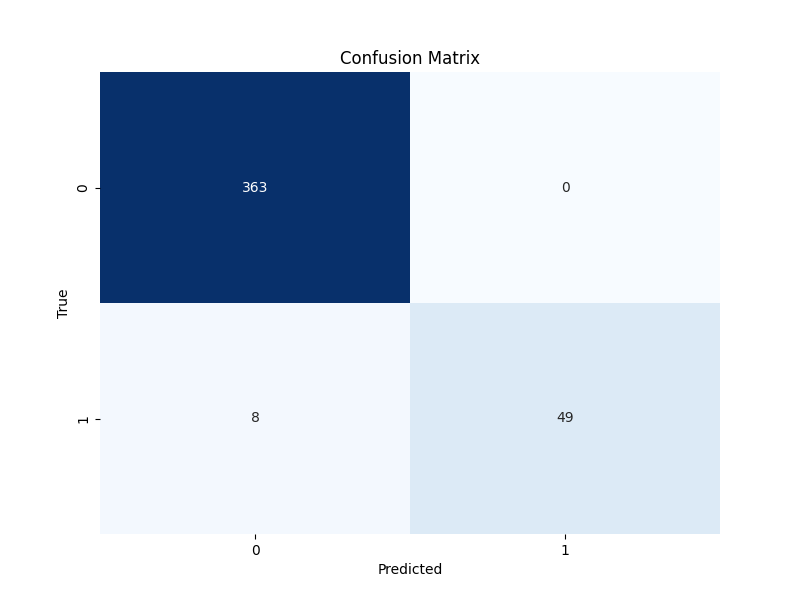
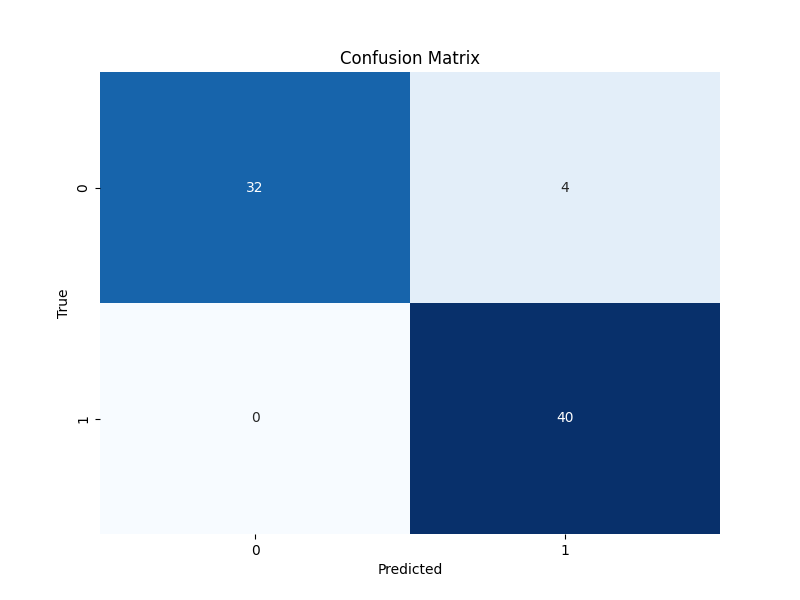
including metrics on web

Changed region(s): [[0.125, 0.12, 0.9062, 0.9], [0.6875, 0.3, 0.7188, 0.33], [0.3125, 0.69, 0.3438, 0.72]]

diff --git a/frontend/build/model.html b/frontend/build/model.html
@@ -45,8 +45,16 @@
         <h2 class="main-title">Model</h2>
         <h2 class="weather-title">Dangerous Asteorids</h2>
 
+        <div class="model-metrics">
+            <br>
+            <h3>Metrics</h3>
+            <p>
+                <strong>Accuracy:</strong> {{ accuracy }}<br>
+                <strong>Precision:</strong> {{ precision }}<br>
+                <strong>Recall:</strong> {{ recall }}
+            </p>
+        </div>
 
-        <!-- Plots -->
         <div class="plots-container">
             <div class="plot">
                 <img src="static/confusion_matrix.png" alt="Confusion Matrix">
@@ -62,32 +70,7 @@
             </div>
         </div>
 
-        <!-- Explanation of model.py -->
-        <div class="model-explanation">
-            <br>
-            <h3>Explanation of the model</h3>
-            <p>
-                The Python script, <code>model.py</code>, is responsible for training a machine learning model to
-                classify asteroids based on their features. <br>Let's break it down the main functions:
-                <br><br>
-                <strong>load_neo_data():</strong> Connects to a MongoDB database to fetch Near-Earth Object (NEO)
-                data.
-                <br>
-                <strong>preprocess_data():</strong> Processes the NEO data into a format suitable for training a
-                machine learning model.
-                <br>
-                <strong>train_model():</strong> Trains a Random Forest Classifier model using the preprocessed data.
-                <br>
-                <strong>evaluate_model():</strong> Evaluates the trained model's accuracy using testing data.
-                <br>
-                <strong>save_feature_importance_plot():</strong> Generates and saves a plot showing the importance
-                of each feature in predicting asteroid hazard.
-                <br>
-                <strong>predict_danger():</strong> Predicts the hazard level of a new asteroid using the trained
-                model.
-                </ul>
-            </p>
-        </div>
+
 
     </div>
 </body>

diff --git a/frontend/styles.css b/frontend/styles.css
@@ -25,7 +25,7 @@ body {
     align-items: center; /* Align items vertically */
 }
 
-.model-explanation {
+.model-metrics {
     text-align: center;
 }
 

diff --git a/model/model.py b/model/model.py
@@ -102,14 +102,16 @@ def train_model(dataframe):
     print("Model trained")
     return model, X_test, y_test
 
+
+
 def evaluate_model(model, X_test, y_test):
     predictions = model.predict(X_test)
 
-    # Model evaluation
-    accuracy = accuracy_score(y_test, predictions)
-    precision = precision_score(y_test, predictions)
-    recall = recall_score(y_test, predictions)
-
+    # Model evaluation & round numbers
+    accuracy = round(accuracy_score(y_test, predictions), 2)
+    precision = round(precision_score(y_test, predictions), 2)
+    recall = round(recall_score(y_test, predictions), 2)
+    
     # Confusion matrix
     cm = confusion_matrix(y_test, predictions)
     plt.figure(figsize=(8, 6))
@@ -133,8 +135,10 @@ def evaluate_model(model, X_test, y_test):
     print("Accuracy: ", accuracy)
     print("Precision: ", precision)
     print("Recall: ", recall)
+    
 
-    return accuracy, precision, recall
+
+    return accuracy, precision, recall, cm
 
 def save_feature_importance_plot(model, dataframe, plot_filename):
     # Plot feature importance

diff --git a/app.py b/app.py
@@ -23,12 +23,18 @@ def main_page():
 # Seite des Modells
 @app.route('/model.html')
 def model_page():
-    return render_template('model.html')
+    neo_data = load_neo_data()
+    df = preprocess_data(neo_data)
+    balanced_df = balance_dataset(df)
+    model, X_test, y_test = train_model(balanced_df)
+    accuracy, precision, recall, cm = evaluate_model(model, X_test, y_test)
+    
+    return render_template('model.html', accuracy=accuracy, precision=precision, recall=recall, cm=cm)
 
 # API-Endpunkt für die Vorhersage
 @app.route('/predict', methods=['POST'])
 def predict():
-    data = request.json  # Daten aus der Anfrage erhalten
+    data = request.json
 
     # Formulardaten erhalten
     absolute_magnitude = float(data['absolute-magnitude'])
